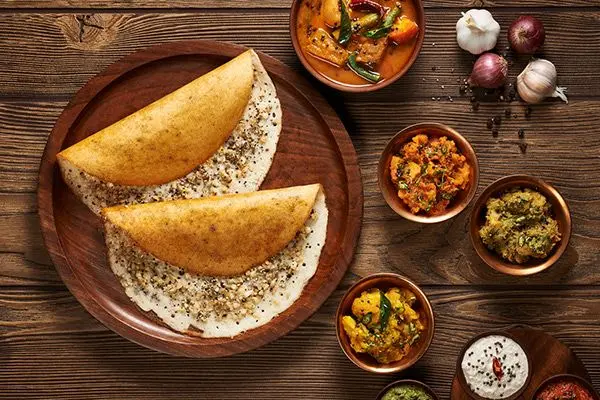
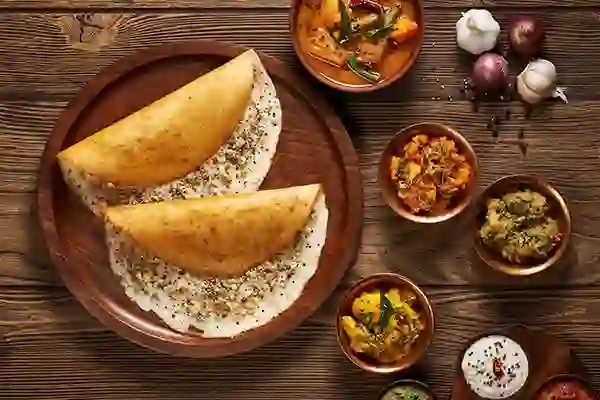
created view full menu button

diff --git a/sangeetha/src/pages/Homepage.jsx b/sangeetha/src/pages/Homepage.jsx
@@ -1,32 +1,66 @@
-import React, { useRef } from "react";
+import React, { lazy, Suspense, useRef, useEffect, useState } from "react";
 import Navbar from "../layout/Navbar";
 import Hero from "../home/Hero";
-import FestivelSpecial from "../home/FestivelSpecial";
-import Clasicfood from "../home/Clasicfood";
-import Services from "../home/Services";
-import DeliveryCTA from "../home/DeliveryCTA";
-import Footer from "../layout/Footer";
+
+// 🔥 Lazy imports (code splitting)
+const FestivelSpecial = lazy(() => import("../home/FestivelSpecial"));
+const Clasicfood = lazy(() => import("../home/Clasicfood"));
+const Services = lazy(() => import("../home/Services"));
+const DeliveryCTA = lazy(() => import("../home/DeliveryCTA"));
+const Footer = lazy(() => import("../layout/Footer"));
 
 const Homepage = () => {
   const classicFoodRef = useRef(null);
 
+  // 🔥 Scroll function
   const scrollToClassicFood = () => {
     classicFoodRef.current?.scrollIntoView({ behavior: "smooth" });
   };
+
+  // 🔥 Delay loading below-the-fold content (improves LCP)
+  const [loadBelow, setLoadBelow] = useState(false);
+
+  useEffect(() => {
+    const timer = setTimeout(() => {
+      setLoadBelow(true);
+    }, 800); // slight delay for better performance
+
+    return () => clearTimeout(timer);
+  }, []);
 
   return (
     <div className="scroll-smooth">
       <Navbar />
 
+      {/* 🔥 Hero loads instantly (important for LCP) */}
       <Hero scrollToClassicFood={scrollToClassicFood} />
-      <FestivelSpecial />
-      <div ref={classicFoodRef} className="scroll-mt-24">
-        <Clasicfood />
-      </div>
 
-      <Services />
-      <DeliveryCTA />
-      <Footer />
+      {/* 🔥 Load rest after initial render */}
+      {loadBelow && (
+        <>
+          <Suspense fallback={null}>
+            <FestivelSpecial />
+          </Suspense>
+
+          <div ref={classicFoodRef} className="scroll-mt-24">
+            <Suspense fallback={null}>
+              <Clasicfood />
+            </Suspense>
+          </div>
+
+          <Suspense fallback={null}>
+            <Services />
+          </Suspense>
+
+          <Suspense fallback={null}>
+            <DeliveryCTA />
+          </Suspense>
+
+          <Suspense fallback={null}>
+            <Footer />
+          </Suspense>
+        </>
+      )}
     </div>
   );
 };

diff --git a/sangeetha/src/animation/Splittext.jsx b/sangeetha/src/animation/Splittext.jsx
@@ -1,21 +1,35 @@
 import { useEffect, useRef } from "react";
-import SplitType from "split-type";
-import { gsap } from "gsap";
 
 const SplitTextAnim = ({ text, className }) => {
   const textRef = useRef();
 
   useEffect(() => {
-    const split = new SplitType(textRef.current, { types: "chars" });
+    let split;
 
-    gsap.from(split.chars, {
-      y: 50,
-      opacity: 0,
-      stagger: 0.05,
-      duration: 1,
+    const observer = new IntersectionObserver(async ([entry]) => {
+      if (entry.isIntersecting) {
+        const SplitType = (await import("split-type")).default;
+        const { gsap } = await import("gsap");
+
+        split = new SplitType(textRef.current, { types: "chars" });
+
+        gsap.from(split.chars, {
+          y: 50,
+          opacity: 0,
+          stagger: 0.05,
+          duration: 1,
+        });
+
+        observer.disconnect();
+      }
     });
 
-    return () => split.revert(); // cleanup
+    observer.observe(textRef.current);
+
+    return () => {
+      observer.disconnect();
+      split?.revert();
+    };
   }, []);
 
   return (

diff --git a/sangeetha/src/home/Hero.jsx b/sangeetha/src/home/Hero.jsx
@@ -10,14 +10,14 @@ const Hero = ({scrollToClassicFood }) => {
     <div className="relative h-screen w-full overflow-hidden">
       
       {/* Background Image */}
-      <img
-        src={food}
-        alt="Food"
-        className="absolute inset-0 w-full h-full object-cover scale-105"
-        width={1200}
-        height={800}
-        loading="eager"
-      />
+<img
+  src={food}
+  alt="Food"
+  className="absolute inset-0 w-full h-full object-cover"
+  loading="eager"
+  fetchPriority="high"
+  decoding="async"
+/>
 
       {/* Overlay */}
       <div className="absolute inset-0 bg-linear-to-b from-black/70 via-black/50 to-black/70"></div>

diff --git a/sangeetha/src/home/Clasicfood.jsx b/sangeetha/src/home/Clasicfood.jsx
@@ -73,6 +73,15 @@ const Clasicfood = () => {
             <Card key={item.id} item={item} />
           ))}
         </div>
+       <div className="flex justify-center"> 
+        <button
+              onClick={() => alert("Redirect to complete menu")}
+              className="mt-4 px-5 py-2 bg-gold text-black font-semibold rounded-lg hover:opacity-90 transition"
+            >
+              See All Items →
+            </button>
+            </div>
+    
 
       </div>
     </div>

diff --git a/sangeetha/src/layout/Navbar.jsx b/sangeetha/src/layout/Navbar.jsx
@@ -76,7 +76,9 @@ const Navbar = () => {
         </ul>
 
         {/* Desktop Button */}
-        <button className="hidden md:block bg-gold text-black px-5 py-2 rounded-lg hover:scale-105 hover:shadow-md transition duration-300">
+        <button 
+         onClick={() => alert("Redirect to booking Table")}
+        className="hidden md:block bg-gold text-black px-5 py-2 rounded-lg hover:scale-105 hover:shadow-md transition duration-300">
           Book Table
         </button>
 

diff --git a/sangeetha/src/home/FestivelSpecial.jsx b/sangeetha/src/home/FestivelSpecial.jsx
@@ -1,7 +1,7 @@
 import { React, useState, lazy, Suspense } from "react";
 
 import scanner from "../assets/scanner.jpg";
-import badam from "../assets/badam.jpg";
+import badam from "../assets/badam.webp";
 import { useInView } from "../hook/useInView";
 
 // Lazy load animation (important for TBT)
